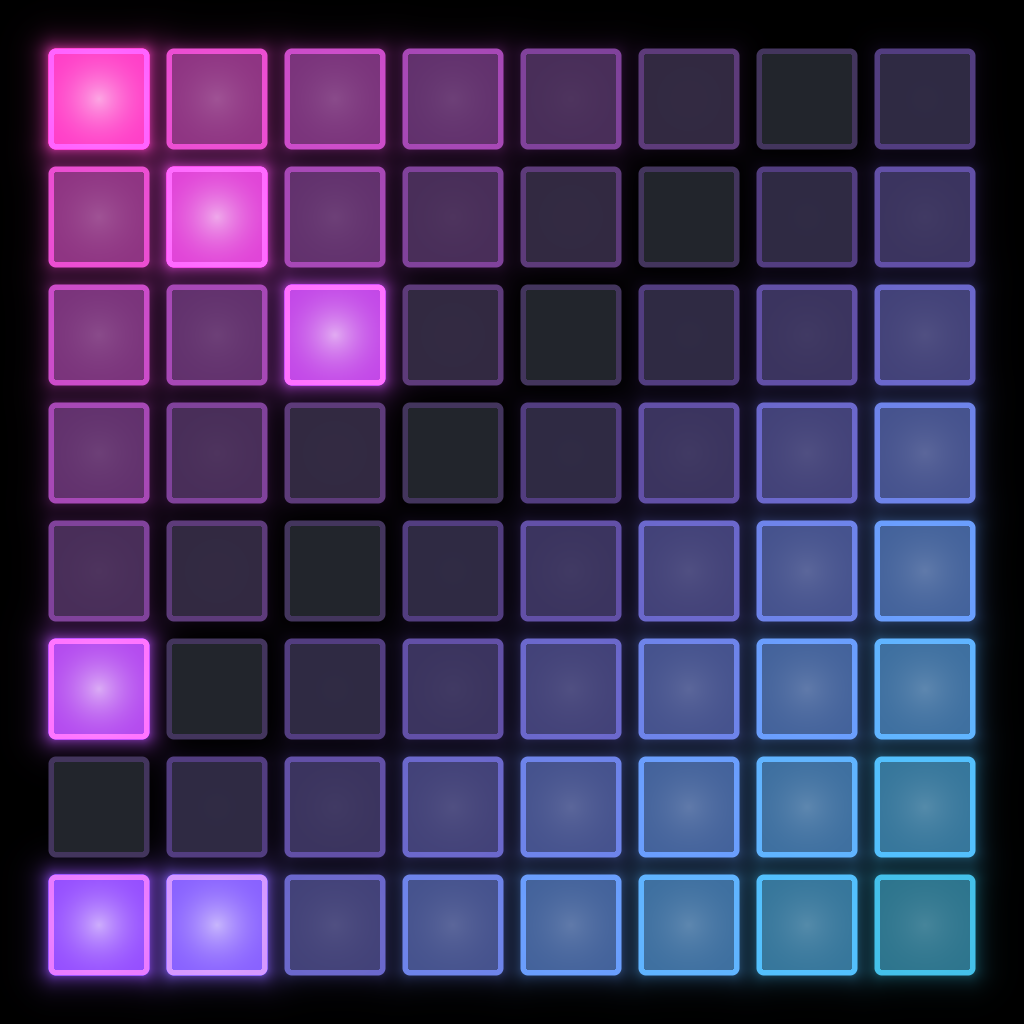
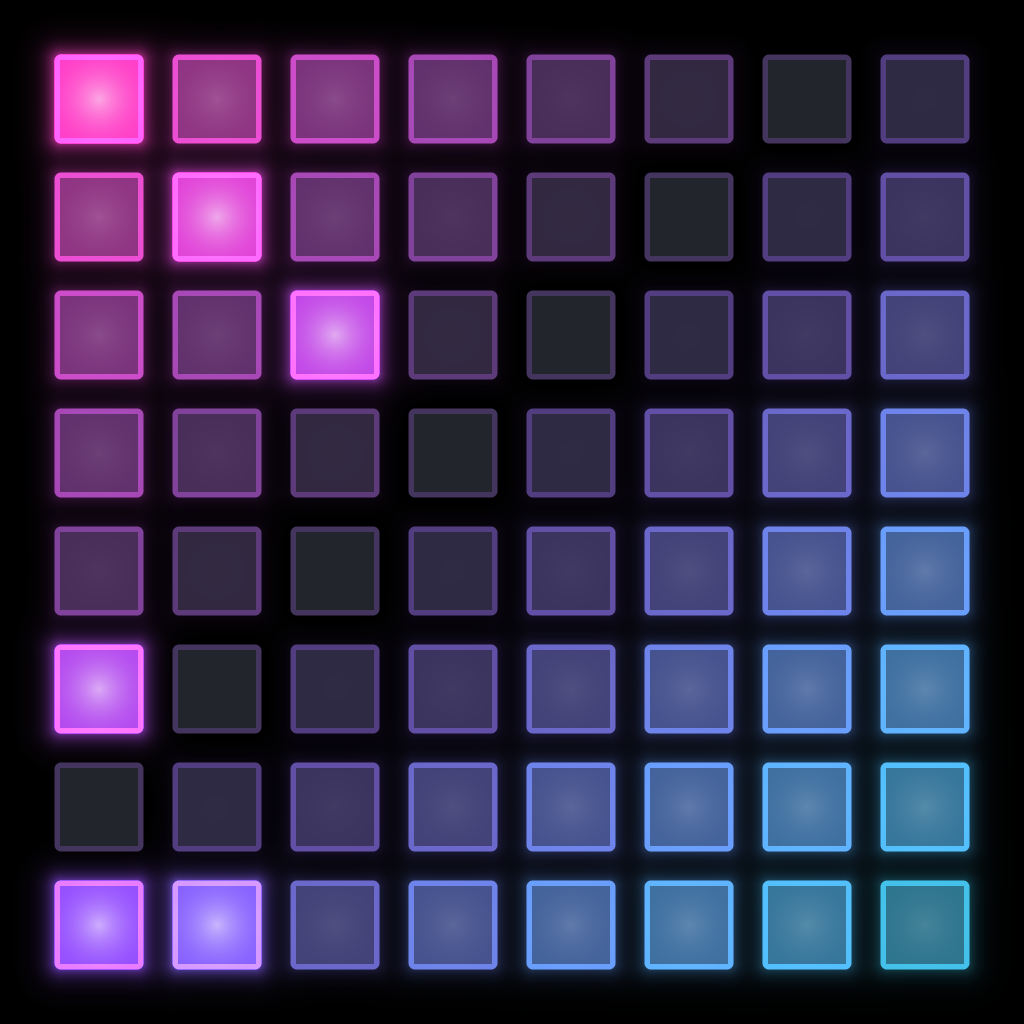
Pad square at 75% and centred; more space between the pads
Astra, 2026-11-03: the square sat too high and too big; it is now three
quarters of the galaxy's size, centred above the line. Pads are smaller
in their cells (gap 30 of 118 at 1024 px), so they read like the board.
Card GIF and icon redrawn, card picture ?v=5.

diff --git a/src/card-20261102.js b/src/card-20261102.js
@@ -6,7 +6,7 @@ export const BUILT_IN_CLIENT_ID = '1567036812768186491';
 
 // Card art: loaded by Discord straight from the public repo, so nobody has to upload it in the Developer Portal.
 // Bump ?v= whenever the card art changes so Discord fetches the new image instead of a cached one.
-export const PAD_GRID_URL = 'https://raw.githubusercontent.com/findastra/ableton-live-discord-presence/main/public/pad-grid-card-20261102.gif?v=4';
+export const PAD_GRID_URL = 'https://raw.githubusercontent.com/findastra/ableton-live-discord-presence/main/public/pad-grid-card-20261102.gif?v=5';
 
 // Drum gear found by its Windows device name. The APC64 is Astra's pad controller.
 export const DEFAULT_DRUM_DEVICES = ['APC64'];

diff --git a/public/style-20261102.css b/public/style-20261102.css
@@ -145,3 +145,7 @@ justify-content:center;gap:14px}.headline,.session{align-self:stretch}.controls{
    (Astra, 2026-11-02). The card shows galaxy-card.gif, the same picture Discord shows. */
 :root{--hh:max(180px,calc(100vh - var(--reserve)));--gw:min(calc(var(--hh) - 12px),100vw)}
 .galaxy{top:0}h1{z-index:1;text-shadow:0 0 18px #000,0 0 6px #000}
+
+/* Ableton only: the pad square at three quarters of the galaxy's size, centred in the space above the line
+   (Astra, 2026-11-03). */
+.official-galaxy canvas,.galaxy img{height:min(100%,calc(var(--gw) * .75))}

diff --git a/public/pad-art-20261102.js b/public/pad-art-20261102.js
@@ -157,7 +157,7 @@ function boxDistance(px, py, half, radius) {
 export function drawPads(out, size, t) {
   const { bright, color } = padState(t);
   const unit = size / 1024;
-  const margin = 40 * unit, cell = (size - margin * 2) / GRID, half = 50 * unit, radius = 7 * unit;
+  const margin = 40 * unit, cell = (size - margin * 2) / GRID, half = 44 * unit, radius = 6 * unit;
   const glowFall = 9 * unit, rim = 5 * unit;
   for (let y = 0; y < size; y++) {
     for (let x = 0; x < size; x++) {
